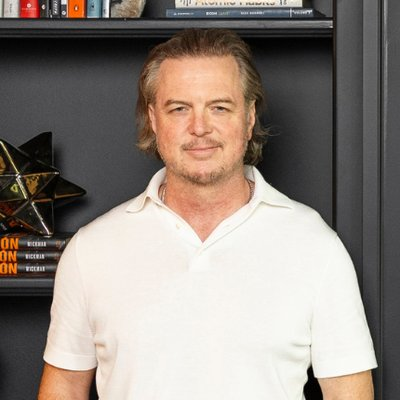
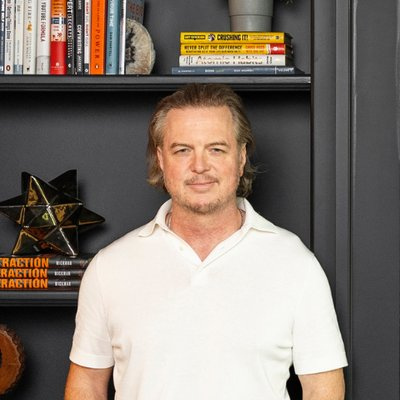
Directory: add Andrea Holmes photo, re-crop with headroom, sort by last name

diff --git a/eosi-directory/index.html b/eosi-directory/index.html
@@ -334,7 +334,7 @@
   </footer>
 
   <script>
-    const IMPLEMENTERS = [{"name":"Aaron Garcia","first_name":"Aaron","last_name":"Garcia","email":"aaron.garcia@eosworldwide.com","designation":"Professional","primary_market":"DFW","other_market":"","profile_url":"https://implementer.eosworldwide.com/aaron-garcia/","photo_url":"photos/aaron-garcia.jpg"},{"name":"Amanda Matthews","first_name":"Amanda","last_name":"Matthews","email":"amanda.matthews@eosworldwide.com","designation":"Certified","primary_market":"DFW","other_market":"Austin","profile_url":"https://implementer.eosworldwide.com/amanda-matthews/","photo_url":"photos/amanda-matthews.jpg"},{"name":"Amy Johannesen","first_name":"Amy","last_name":"Johannesen","email":"amy.johannesen@eosworldwide.com","designation":"Certified","primary_market":"DFW","other_market":"","profile_url":"https://implementer.eosworldwide.com/amy-johannesen/","photo_url":"photos/amy-johannesen.jpg"},{"name":"Andrea Holmes","first_name":"Andrea","last_name":"Holmes","email":"andrea.holmes@eosworldwide.com","designation":"Professional","primary_market":"DFW","other_market":"","profile_url":"","photo_url":""},{"name":"Andrew Newsom","first_name":"Andrew","last_name":"Newsom","email":"andrew.newsom@eosworldwide.com","designation":"Certified","primary_market":"DFW","other_market":"","profile_url":"https://implementer.eosworldwide.com/andrew-newsom/","photo_url":"photos/andrew-newsom.jpg"},{"name":"Ann Sheu","first_name":"Ann","last_name":"Sheu","email":"ann.sheu@eosworldwide.com","designation":"Certified","primary_market":"DFW","other_market":"","profile_url":"https://implementer.eosworldwide.com/ann-sheu/","photo_url":"photos/ann-sheu.jpg"},{"name":"Blake Winters","first_name":"Blake","last_name":"Winters","email":"blake.winters@eosworldwide.com","designation":"Certified","primary_market":"DFW","other_market":"","profile_url":"https://implementer.eosworldwide.com/blake-winters/","photo_url":"photos/blake-winters.jpg"},{"name":"Brian Prescott","first_name":"Brian","last_name":"Prescott","email":"brian.prescott@eosworldwide.com","designation":"Professional","primary_market":"DFW","other_market":"Mid-Atlantic","profile_url":"https://implementer.eosworldwide.com/brian-prescott/","photo_url":"photos/brian-prescott.jpg"},{"name":"Brooke Lively","first_name":"Brooke","last_name":"Lively","email":"brooke.lively@eosworldwide.com","designation":"Certified","primary_market":"DFW","other_market":"","profile_url":"https://implementer.eosworldwide.com/brooke-lively/","photo_url":"photos/brooke-lively.jpg"},{"name":"Curt Swindoll","first_name":"Curt","last_name":"Swindoll","email":"curt.swindoll@eosworldwide.com","designation":"Certified","primary_market":"DFW","other_market":"","profile_url":"https://implementer.eosworldwide.com/curt-swindoll/","photo_url":"photos/curt-swindoll.jpg"},{"name":"Curtis Rippee","first_name":"Curtis","last_name":"Rippee","email":"curtis.rippee@eosworldwide.com","designation":"Certified","primary_market":"DFW","other_market":"","profile_url":"https://implementer.eosworldwide.com/curtis-rippee/","photo_url":"photos/curtis-rippee.jpg"},{"name":"Daniel Ignatius Himel","first_name":"Daniel Ignatius","last_name":"Himel","email":"daniel.himel@eosworldwide.com","designation":"Certified","primary_market":"DFW","other_market":"","profile_url":"https://implementer.eosworldwide.com/daniel-himel/","photo_url":"photos/daniel-ignatius-himel.jpg"},{"name":"Dawn Clarke","first_name":"Dawn","last_name":"Clarke","email":"dawn.clarke@eosworldwide.com","designation":"Expert","primary_market":"DFW","other_market":"","profile_url":"https://implementer.eosworldwide.com/dawn-clarke/","photo_url":"photos/dawn-clarke.jpg"},{"name":"Duke Revard","first_name":"Duke","last_name":"Revard","email":"duke.revard@eosworldwide.com","designation":"Certified","primary_market":"DFW","other_market":"Bentonville, AR","profile_url":"https://implementer.eosworldwide.com/duke-revard/","photo_url":"photos/duke-revard.jpg"},{"name":"Erin Thiem","first_name":"Erin","last_name":"Thiem","email":"erin.thiem@eosworldwide.com","designation":"Certified","primary_market":"DFW","other_market":"","profile_url":"https://implementer.eosworldwide.com/erin-thiem/","photo_url":"photos/erin-thiem.jpg"},{"name":"Gary Leeman","first_name":"Gary","last_name":"Leeman","email":"gary.leeman@eosworldwide.com","designation":"Professional","primary_market":"DFW","other_market":"","profile_url":"https://implementer.eosworldwide.com/gary-leeman/","photo_url":"photos/gary-leeman.jpg"},{"name":"Greg Benson","first_name":"Greg","last_name":"Benson","email":"greg.benson@eosworldwide.com","designation":"Certified","primary_market":"DFW","other_market":"","profile_url":"https://implementer.eosworldwide.com/greg-benson/","photo_url":"photos/greg-benson.jpg"},{"name":"Harrison Jenkins","first_name":"Harrison","last_name":"Jenkins","email":"harrison.jenkins@eosworldwide.com","designation":"Professional","primary_market":"DFW","other_market":"","profile_url":"https://implementer.eosworldwide.com/harrison-jenkins/","photo_url":"photos/harrison-jenkins.jpg"},{"name":"James Hill","first_name":"James","last_name":"Hill","email":"james.hill@eosworldwide.com","designation":"Professional","primary_market":"DFW","other_market":"","profile_url":"https://implementer.eosworldwide.com/james-hill/","photo_url":"photos/james-hill.jpg"},{"name":"Jarrod Upton","first_name":"Jarrod","last_name":"Upton","email":"jarrod.upton@eosworldwide.com","designation":"Professional","primary_market":"DFW","other_market":"West Texas / Midland","profile_url":"https://implementer.eosworldwide.com/jarrod-upton/","photo_url":"photos/jarrod-upton.jpg"},{"name":"Jeff Schafer","first_name":"Jeff","last_name":"Schafer","email":"jeff.schafer@eosworldwide.com","designation":"Certified","primary_market":"DFW","other_market":"","profile_url":"https://implementer.eosworldwide.com/jeff-schafer/","photo_url":"photos/jeff-schafer.jpg"},{"name":"Jill Young","first_name":"Jill","last_name":"Young","email":"jyoung@eosworldwide.com","designation":"Expert","primary_market":"DFW","other_market":"","profile_url":"https://implementer.eosworldwide.com/jill-young/","photo_url":"photos/jill-young.jpg"},{"name":"Jim Brewer","first_name":"Jim","last_name":"Brewer","email":"jim.brewer@eosworldwide.com","designation":"Professional","primary_market":"DFW","other_market":"","profile_url":"https://implementer.eosworldwide.com/jim-brewer/","photo_url":"photos/jim-brewer.jpg"},{"name":"John Lewis","first_name":"John","last_name":"Lewis","email":"john.lewis@eosworldwide.com","designation":"Professional","primary_market":"DFW","other_market":"","profile_url":"https://implementer.eosworldwide.com/john-lewis/","photo_url":"photos/john-lewis.jpg"},{"name":"Justin Mink","first_name":"Justin","last_name":"Mink","email":"justin.mink@eosworldwide.com","designation":"Certified","primary_market":"DFW","other_market":"","profile_url":"https://implementer.eosworldwide.com/justin-mink/","photo_url":"photos/justin-mink.jpg"},{"name":"Kevin Taylor","first_name":"Kevin","last_name":"Taylor","email":"kevin.taylor@eosworldwide.com","designation":"Professional","primary_market":"DFW","other_market":"","profile_url":"https://implementer.eosworldwide.com/kevin-taylor/","photo_url":"photos/kevin-taylor.jpg"},{"name":"Leonard Lynskey","first_name":"Leonard","last_name":"Lynskey","email":"leonard.lynskey@eosworldwide.com","designation":"Expert","primary_market":"DFW","other_market":"","profile_url":"https://implementer.eosworldwide.com/leonard-lynskey/","photo_url":"photos/leonard-lynskey.jpg"},{"name":"Mark C Winters","first_name":"Mark C","last_name":"Winters","email":"mcw@markcwinters.com","designation":"Expert","primary_market":"DFW","other_market":"","profile_url":"https://implementer.eosworldwide.com/mark-c-winters/","photo_url":"photos/mark-c-winters.jpg"},{"name":"Michael Visentine","first_name":"Michael","last_name":"Visentine","email":"michael.visentine@eosworldwide.com","designation":"Certified","primary_market":"DFW","other_market":"","profile_url":"https://implementer.eosworldwide.com/michael-visentine/","photo_url":"photos/michael-visentine.jpg"},{"name":"Natalie Mitro","first_name":"Natalie","last_name":"Mitro","email":"natalie.mitro@eosworldwide.com","designation":"Professional","primary_market":"DFW","other_market":"","profile_url":"https://implementer.eosworldwide.com/natalie-mitro/","photo_url":"photos/natalie-mitro.jpg"},{"name":"Ray Myers","first_name":"Ray","last_name":"Myers","email":"ray.myers@eosworldwide.com","designation":"Professional","primary_market":"DFW","other_market":"","profile_url":"https://implementer.eosworldwide.com/ray-myers/","photo_url":"photos/ray-myers.jpg"},{"name":"Ray Salinas","first_name":"Ray","last_name":"Salinas","email":"ray.salinas@eosworldwide.com","designation":"Certified","primary_market":"DFW","other_market":"","profile_url":"https://implementer.eosworldwide.com/ray-salinas/","photo_url":"photos/ray-salinas.jpg"},{"name":"Sally Michael","first_name":"Sally","last_name":"Michael","email":"sally.michael@eosworldwide.com","designation":"Professional","primary_market":"Central texas","other_market":"","profile_url":"https://implementer.eosworldwide.com/sally-michael/","photo_url":"photos/sally-michael.jpg"},{"name":"Sandi Mitchell","first_name":"Sandi","last_name":"Mitchell","email":"sandi@apexcatalystgroup.com","designation":"Certified","primary_market":"DFW","other_market":"","profile_url":"https://implementer.eosworldwide.com/sandi-mitchell/","photo_url":"photos/sandi-mitchell.jpg"},{"name":"Sean Rosensteel","first_name":"Sean","last_name":"Rosensteel","email":"sean.rosensteel@eosworldwide.com","designation":"Certified","primary_market":"DFW","other_market":"","profile_url":"https://implementer.eosworldwide.com/sean-rosensteel/","photo_url":"photos/sean-rosensteel.jpg"},{"name":"Shane Spillers","first_name":"Shane","last_name":"Spillers","email":"shane.spillers@eosworldwide.com","designation":"Expert","primary_market":"DFW","other_market":"","profile_url":"https://implementer.eosworldwide.com/shane-spillers/","photo_url":"photos/shane-spillers.jpg"},{"name":"Steven Ross","first_name":"Steven","last_name":"Ross","email":"steven.ross@eosworldwide.com","designation":"Certified","primary_market":"DFW","other_market":"","profile_url":"https://implementer.eosworldwide.com/steven-ross/","photo_url":"photos/steven-ross.jpg"},{"name":"Stewart Hsu","first_name":"Stewart","last_name":"Hsu","email":"stewart.hsu@eosworldwide.com","designation":"Professional","primary_market":"DFW","other_market":"","profile_url":"https://implementer.eosworldwide.com/stewart-hsu/","photo_url":"photos/stewart-hsu.jpg"},{"name":"Willard Martin","first_name":"Williard","last_name":"Martin","email":"willard.martin@eosworldwide.com","designation":"Professional","primary_market":"DFW","other_market":"Iowa","profile_url":"https://implementer.eosworldwide.com/willard-martin/","photo_url":"photos/willard-martin.jpg"},{"name":"Zachary Perry","first_name":"Zack","last_name":"Perry","email":"zack.perry@eosworldwide.com","designation":"Professional","primary_market":"DFW","other_market":"","profile_url":"https://implementer.eosworldwide.com/zack-perry/","photo_url":"photos/zachary-perry.jpg"}];
+    const IMPLEMENTERS = [{"name":"Greg Benson","first_name":"Greg","last_name":"Benson","email":"greg.benson@eosworldwide.com","designation":"Certified","primary_market":"DFW","other_market":"","profile_url":"https://implementer.eosworldwide.com/greg-benson/","photo_url":"photos/greg-benson.jpg"},{"name":"Jim Brewer","first_name":"Jim","last_name":"Brewer","email":"jim.brewer@eosworldwide.com","designation":"Professional","primary_market":"DFW","other_market":"","profile_url":"https://implementer.eosworldwide.com/jim-brewer/","photo_url":"photos/jim-brewer.jpg"},{"name":"Dawn Clarke","first_name":"Dawn","last_name":"Clarke","email":"dawn.clarke@eosworldwide.com","designation":"Expert","primary_market":"DFW","other_market":"","profile_url":"https://implementer.eosworldwide.com/dawn-clarke/","photo_url":"photos/dawn-clarke.jpg"},{"name":"Aaron Garcia","first_name":"Aaron","last_name":"Garcia","email":"aaron.garcia@eosworldwide.com","designation":"Professional","primary_market":"DFW","other_market":"","profile_url":"https://implementer.eosworldwide.com/aaron-garcia/","photo_url":"photos/aaron-garcia.jpg"},{"name":"James Hill","first_name":"James","last_name":"Hill","email":"james.hill@eosworldwide.com","designation":"Professional","primary_market":"DFW","other_market":"","profile_url":"https://implementer.eosworldwide.com/james-hill/","photo_url":"photos/james-hill.jpg"},{"name":"Daniel Ignatius Himel","first_name":"Daniel Ignatius","last_name":"Himel","email":"daniel.himel@eosworldwide.com","designation":"Certified","primary_market":"DFW","other_market":"","profile_url":"https://implementer.eosworldwide.com/daniel-himel/","photo_url":"photos/daniel-ignatius-himel.jpg"},{"name":"Andrea Holmes","first_name":"Andrea","last_name":"Holmes","email":"andrea.holmes@eosworldwide.com","designation":"Professional","primary_market":"DFW","other_market":"","profile_url":"","photo_url":""},{"name":"Stewart Hsu","first_name":"Stewart","last_name":"Hsu","email":"stewart.hsu@eosworldwide.com","designation":"Professional","primary_market":"DFW","other_market":"","profile_url":"https://implementer.eosworldwide.com/stewart-hsu/","photo_url":"photos/stewart-hsu.jpg"},{"name":"Harrison Jenkins","first_name":"Harrison","last_name":"Jenkins","email":"harrison.jenkins@eosworldwide.com","designation":"Professional","primary_market":"DFW","other_market":"","profile_url":"https://implementer.eosworldwide.com/harrison-jenkins/","photo_url":"photos/harrison-jenkins.jpg"},{"name":"Amy Johannesen","first_name":"Amy","last_name":"Johannesen","email":"amy.johannesen@eosworldwide.com","designation":"Certified","primary_market":"DFW","other_market":"","profile_url":"https://implementer.eosworldwide.com/amy-johannesen/","photo_url":"photos/amy-johannesen.jpg"},{"name":"Gary Leeman","first_name":"Gary","last_name":"Leeman","email":"gary.leeman@eosworldwide.com","designation":"Professional","primary_market":"DFW","other_market":"","profile_url":"https://implementer.eosworldwide.com/gary-leeman/","photo_url":"photos/gary-leeman.jpg"},{"name":"John Lewis","first_name":"John","last_name":"Lewis","email":"john.lewis@eosworldwide.com","designation":"Professional","primary_market":"DFW","other_market":"","profile_url":"https://implementer.eosworldwide.com/john-lewis/","photo_url":"photos/john-lewis.jpg"},{"name":"Brooke Lively","first_name":"Brooke","last_name":"Lively","email":"brooke.lively@eosworldwide.com","designation":"Certified","primary_market":"DFW","other_market":"","profile_url":"https://implementer.eosworldwide.com/brooke-lively/","photo_url":"photos/brooke-lively.jpg"},{"name":"Leonard Lynskey","first_name":"Leonard","last_name":"Lynskey","email":"leonard.lynskey@eosworldwide.com","designation":"Expert","primary_market":"DFW","other_market":"","profile_url":"https://implementer.eosworldwide.com/leonard-lynskey/","photo_url":"photos/leonard-lynskey.jpg"},{"name":"Willard Martin","first_name":"Williard","last_name":"Martin","email":"willard.martin@eosworldwide.com","designation":"Professional","primary_market":"DFW","other_market":"Iowa","profile_url":"https://implementer.eosworldwide.com/willard-martin/","photo_url":"photos/willard-martin.jpg"},{"name":"Amanda Matthews","first_name":"Amanda","last_name":"Matthews","email":"amanda.matthews@eosworldwide.com","designation":"Certified","primary_market":"DFW","other_market":"Austin","profile_url":"https://implementer.eosworldwide.com/amanda-matthews/","photo_url":"photos/amanda-matthews.jpg"},{"name":"Sally Michael","first_name":"Sally","last_name":"Michael","email":"sally.michael@eosworldwide.com","designation":"Professional","primary_market":"Central texas","other_market":"","profile_url":"https://implementer.eosworldwide.com/sally-michael/","photo_url":"photos/sally-michael.jpg"},{"name":"Justin Mink","first_name":"Justin","last_name":"Mink","email":"justin.mink@eosworldwide.com","designation":"Certified","primary_market":"DFW","other_market":"","profile_url":"https://implementer.eosworldwide.com/justin-mink/","photo_url":"photos/justin-mink.jpg"},{"name":"Sandi Mitchell","first_name":"Sandi","last_name":"Mitchell","email":"sandi@apexcatalystgroup.com","designation":"Certified","primary_market":"DFW","other_market":"","profile_url":"https://implementer.eosworldwide.com/sandi-mitchell/","photo_url":"photos/sandi-mitchell.jpg"},{"name":"Natalie Mitro","first_name":"Natalie","last_name":"Mitro","email":"natalie.mitro@eosworldwide.com","designation":"Professional","primary_market":"DFW","other_market":"","profile_url":"https://implementer.eosworldwide.com/natalie-mitro/","photo_url":"photos/natalie-mitro.jpg"},{"name":"Ray Myers","first_name":"Ray","last_name":"Myers","email":"ray.myers@eosworldwide.com","designation":"Professional","primary_market":"DFW","other_market":"","profile_url":"https://implementer.eosworldwide.com/ray-myers/","photo_url":"photos/ray-myers.jpg"},{"name":"Andrew Newsom","first_name":"Andrew","last_name":"Newsom","email":"andrew.newsom@eosworldwide.com","designation":"Certified","primary_market":"DFW","other_market":"","profile_url":"https://implementer.eosworldwide.com/andrew-newsom/","photo_url":"photos/andrew-newsom.jpg"},{"name":"Zachary Perry","first_name":"Zack","last_name":"Perry","email":"zack.perry@eosworldwide.com","designation":"Professional","primary_market":"DFW","other_market":"","profile_url":"https://implementer.eosworldwide.com/zack-perry/","photo_url":"photos/zachary-perry.jpg"},{"name":"Brian Prescott","first_name":"Brian","last_name":"Prescott","email":"brian.prescott@eosworldwide.com","designation":"Professional","primary_market":"DFW","other_market":"Mid-Atlantic","profile_url":"https://implementer.eosworldwide.com/brian-prescott/","photo_url":"photos/brian-prescott.jpg"},{"name":"Duke Revard","first_name":"Duke","last_name":"Revard","email":"duke.revard@eosworldwide.com","designation":"Certified","primary_market":"DFW","other_market":"Bentonville, AR","profile_url":"https://implementer.eosworldwide.com/duke-revard/","photo_url":"photos/duke-revard.jpg"},{"name":"Curtis Rippee","first_name":"Curtis","last_name":"Rippee","email":"curtis.rippee@eosworldwide.com","designation":"Certified","primary_market":"DFW","other_market":"","profile_url":"https://implementer.eosworldwide.com/curtis-rippee/","photo_url":"photos/curtis-rippee.jpg"},{"name":"Sean Rosensteel","first_name":"Sean","last_name":"Rosensteel","email":"sean.rosensteel@eosworldwide.com","designation":"Certified","primary_market":"DFW","other_market":"","profile_url":"https://implementer.eosworldwide.com/sean-rosensteel/","photo_url":"photos/sean-rosensteel.jpg"},{"name":"Steven Ross","first_name":"Steven","last_name":"Ross","email":"steven.ross@eosworldwide.com","designation":"Certified","primary_market":"DFW","other_market":"","profile_url":"https://implementer.eosworldwide.com/steven-ross/","photo_url":"photos/steven-ross.jpg"},{"name":"Ray Salinas","first_name":"Ray","last_name":"Salinas","email":"ray.salinas@eosworldwide.com","designation":"Certified","primary_market":"DFW","other_market":"","profile_url":"https://implementer.eosworldwide.com/ray-salinas/","photo_url":"photos/ray-salinas.jpg"},{"name":"Jeff Schafer","first_name":"Jeff","last_name":"Schafer","email":"jeff.schafer@eosworldwide.com","designation":"Certified","primary_market":"DFW","other_market":"","profile_url":"https://implementer.eosworldwide.com/jeff-schafer/","photo_url":"photos/jeff-schafer.jpg"},{"name":"Ann Sheu","first_name":"Ann","last_name":"Sheu","email":"ann.sheu@eosworldwide.com","designation":"Certified","primary_market":"DFW","other_market":"","profile_url":"https://implementer.eosworldwide.com/ann-sheu/","photo_url":"photos/ann-sheu.jpg"},{"name":"Shane Spillers","first_name":"Shane","last_name":"Spillers","email":"shane.spillers@eosworldwide.com","designation":"Expert","primary_market":"DFW","other_market":"","profile_url":"https://implementer.eosworldwide.com/shane-spillers/","photo_url":"photos/shane-spillers.jpg"},{"name":"Curt Swindoll","first_name":"Curt","last_name":"Swindoll","email":"curt.swindoll@eosworldwide.com","designation":"Certified","primary_market":"DFW","other_market":"","profile_url":"https://implementer.eosworldwide.com/curt-swindoll/","photo_url":"photos/curt-swindoll.jpg"},{"name":"Kevin Taylor","first_name":"Kevin","last_name":"Taylor","email":"kevin.taylor@eosworldwide.com","designation":"Professional","primary_market":"DFW","other_market":"","profile_url":"https://implementer.eosworldwide.com/kevin-taylor/","photo_url":"photos/kevin-taylor.jpg"},{"name":"Erin Thiem","first_name":"Erin","last_name":"Thiem","email":"erin.thiem@eosworldwide.com","designation":"Certified","primary_market":"DFW","other_market":"","profile_url":"https://implementer.eosworldwide.com/erin-thiem/","photo_url":"photos/erin-thiem.jpg"},{"name":"Jarrod Upton","first_name":"Jarrod","last_name":"Upton","email":"jarrod.upton@eosworldwide.com","designation":"Professional","primary_market":"DFW","other_market":"West Texas / Midland","profile_url":"https://implementer.eosworldwide.com/jarrod-upton/","photo_url":"photos/jarrod-upton.jpg"},{"name":"Michael Visentine","first_name":"Michael","last_name":"Visentine","email":"michael.visentine@eosworldwide.com","designation":"Certified","primary_market":"DFW","other_market":"","profile_url":"https://implementer.eosworldwide.com/michael-visentine/","photo_url":"photos/michael-visentine.jpg"},{"name":"Blake Winters","first_name":"Blake","last_name":"Winters","email":"blake.winters@eosworldwide.com","designation":"Certified","primary_market":"DFW","other_market":"","profile_url":"https://implementer.eosworldwide.com/blake-winters/","photo_url":"photos/blake-winters.jpg"},{"name":"Mark C Winters","first_name":"Mark C","last_name":"Winters","email":"mcw@markcwinters.com","designation":"Expert","primary_market":"DFW","other_market":"","profile_url":"https://implementer.eosworldwide.com/mark-c-winters/","photo_url":"photos/mark-c-winters.jpg"},{"name":"Jill Young","first_name":"Jill","last_name":"Young","email":"jyoung@eosworldwide.com","designation":"Expert","primary_market":"DFW","other_market":"","profile_url":"https://implementer.eosworldwide.com/jill-young/","photo_url":"photos/jill-young.jpg"}];
 
     // Build the "other market" filter dropdown from actual data
     const marketSet = new Set();

diff --git a/crop_directory_photos.py b/crop_directory_photos.py
@@ -30,28 +30,38 @@ def detect_face(pil_img):
     return (x + w // 2, y + h // 2, w, h)
 
 def smart_crop_square(pil_img):
+    """Frame the face with headroom. Face center sits at ~40% from top,
+    square side = face_h * 4.2. This ensures the top of the head has
+    breathing room and shoulders show below."""
     W, H = pil_img.size
     face = detect_face(pil_img)
     if face is None:
         s = min(W, H)
         left = (W - s) // 2
-        top = int((H - s) * 0.15)
+        top = int((H - s) * 0.10)
         return pil_img.crop((left, top, left + s, top + s)), 'fallback'
     fx, fy, fw, fh = face
-    target = int(fh * 3.5)
+    # Larger multiplier: extra headroom + more shoulder
+    target = int(fh * 4.2)
     target = min(target, W, H)
     left = fx - target // 2
-    top = fy - int(target * 0.30)
+    # Face center at 40% from top (was 30% — too tight at the top)
+    top = fy - int(target * 0.40)
     left = max(0, min(left, W - target))
     top = max(0, min(top, H - target))
     return pil_img.crop((left, top, left + target, top + target)), 'face'
+
+# Files we do NOT re-crop (hand-curated in prior work)
+HANDS_OFF = {'shane-spillers', 'andrea-holmes'}
 
 def process(rec):
     name = rec['name']
     photo_url = rec.get('photo_url', '') or ''
     fn_base = slug(name)
     out_path = os.path.join(OUT, fn_base + '.jpg')
-    # Skip Shane Spillers — already has a locally curated photo
+    if fn_base in HANDS_OFF:
+        return (name, 'skip_curated', f'photos/{fn_base}.jpg')
+    # Legacy: also skip anything the roster already points to a local photo
     if photo_url.startswith('photos/'):
         return (name, 'skip_local', photo_url)
     if not photo_url:
